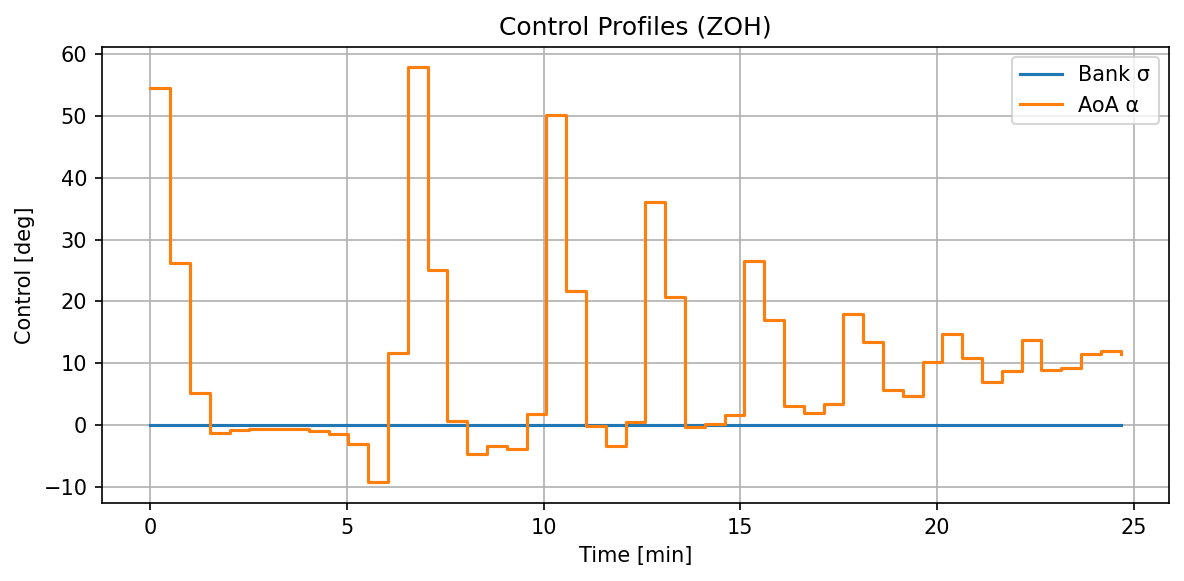
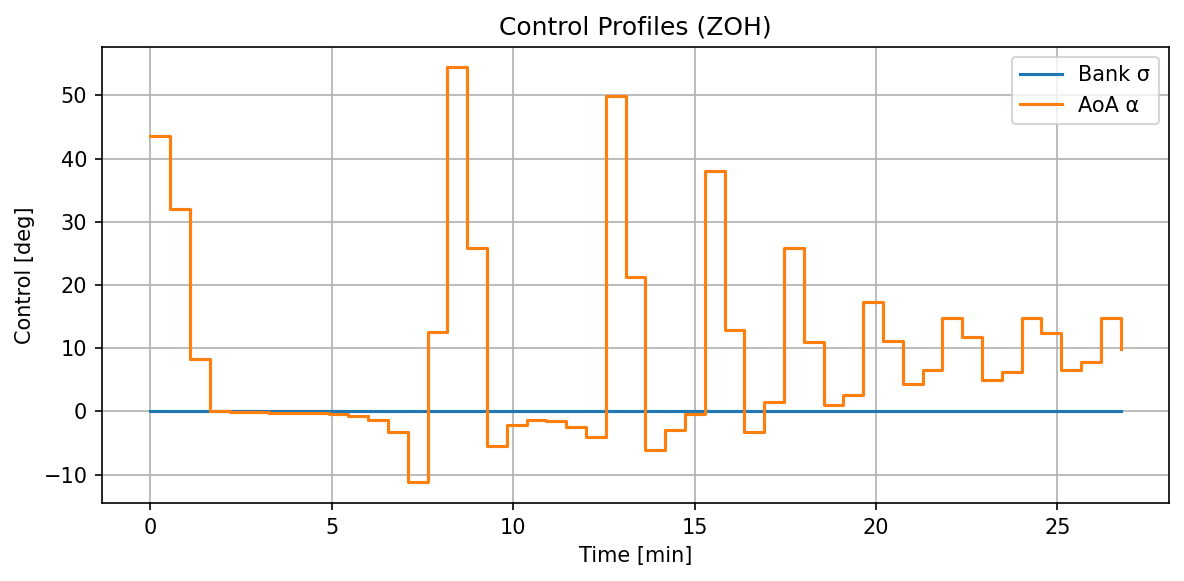
Checkpoint before assistant change: Set target location and show initial state/path for debugging issues
Sets final longitude/latitude and generates plots of initial trajectories; adjusts constraint limits for debugging IPOPT convergence issues.

Replit-Commit-Author: Assistant

diff --git a/hypersonic.py b/hypersonic.py
@@ -7,104 +7,108 @@ import casadi as ca
 import numpy as np
 
 # ---- physical constants (SI) --------------------------------------------
-MU       = 3.986004418e14          # Earth's GM          
-OMEGA_E  = 7.292115e-5             # sidereal rate       
+MU = 3.986004418e14  # Earth's GM
+OMEGA_E = 7.292115e-5  # sidereal rate
 
 # ---- Orbiter (Space Shuttle) geometry & aero ----------------------------
-SLUG2KG  = 14.593902937            # exact US-to-SI
-FT2M     = 0.3048
+SLUG2KG = 14.593902937  # exact US-to-SI
+FT2M = 0.3048
 FT2_TO_M2 = FT2M**2
 
-MASS = 7008 * SLUG2KG              # 102 274 kg
-SREF = 2690 * FT2_TO_M2            # 249.91 m²
+MASS = 7008 * SLUG2KG  # 102 274 kg
+SREF = 2690 * FT2_TO_M2  # 249.91 m²
 
 # C_L(α)  and  C_D(α)
-CL_0   = -0.2070
-CL_a   = 1.6760                    # per rad
-CD_0   = 0.07854
-CD_a   = -0.3529
-CD_a2  = 2.0400
+CL_0 = -0.2070
+CL_a = 1.6760  # per rad
+CD_0 = 0.07854
+CD_a = -0.3529
+CD_a2 = 2.0400
+
 
 class HypersonicVehicle(NonlinearSDE):
     """
     ▸ 6-state planar shuttle model with density GRF only.
     ▸ NO additive process-noise:  g(x,u) ≡ 0  (stochasticity is multiplicative via ρ).
     """
+
     def __init__(self, rho_field: DensityGRF | None = None):
         super().__init__(dim_x=6, dim_u=2, dim_w=0)
-        self.rho_field = rho_field     # if None → deterministic ρ̄(h)
+        self.rho_field = rho_field  # if None → deterministic ρ̄(h)
 
     # ------------------------------------------------------------------ AERODYNAMICS
     @staticmethod
     def aero_coeffs(alpha: float) -> tuple[float, float]:
-        cl = CL_0 + CL_a   * alpha
-        cd = CD_0 + CD_a   * alpha + CD_a2 * alpha**2
+        cl = CL_0 + CL_a * alpha
+        cd = CD_0 + CD_a * alpha + CD_a2 * alpha**2
         return cl, cd
 
-    def aero_forces(self, h: float, v: float, alpha: float) -> tuple[float, float]:
+    def aero_forces(self, h: float, v: float,
+                    alpha: float) -> tuple[float, float]:
         ρ = rho_nominal(h) if self.rho_field is None else self.rho_field(h)
         q = 0.5 * ρ * v**2
         cL, cD = self.aero_coeffs(alpha)
-        L, D   = q * SREF * cL, q * SREF * cD
+        L, D = q * SREF * cL, q * SREF * cD
         return L, D
 
     # ------------------------------------------------------------------ EQUATIONS OF MOTION
     def f(self, x, u, t):
-        r, _, φ, v, ψ, γ   = [x[i] for i in range(6)]        # states
-        σ, α               = [u[i] for i in range(2)]        # controls: bank, angle-of-attack
+        r, _, φ, v, ψ, γ = [x[i] for i in range(6)]  # states
+        σ, α = [u[i] for i in range(2)]  # controls: bank, angle-of-attack
 
-        h        = r - R_E
-        L, D     = self.aero_forces(h, v, α)
-        a_s      = -D / MASS
-        a_n      =  L * ca.cos(σ) / MASS
-        a_w      =  L * ca.sin(σ) / MASS
-        g_r      = MU / r**2
+        h = r - R_E
+        L, D = self.aero_forces(h, v, α)
+        a_s = -D / MASS
+        a_n = L * ca.cos(σ) / MASS
+        a_w = L * ca.sin(σ) / MASS
+        g_r = MU / r**2
 
-        rdot  = v * ca.sin(γ)
-        θdot  = v * ca.cos(γ) * ca.sin(ψ) / (r * ca.cos(φ))
-        φdot  = v * ca.cos(γ) * ca.cos(ψ) / r
-        vdot  = (a_s - g_r * ca.sin(γ)
-                 + (OMEGA_E**2) * r * ca.cos(φ) * (ca.sin(γ) * ca.cos(φ) - ca.cos(γ) * ca.sin(φ) * ca.cos(ψ)))
-        ψdot  = (a_w / (v * ca.cos(γ)) - (v / r) * ca.cos(γ) * ca.tan(φ) * ca.cos(ψ)
-                 - (OMEGA_E**2 * r / (v * ca.cos(γ))) * (ca.sin(φ) * ca.cos(φ) * ca.cos(ψ))
-                      + 2 * OMEGA_E * (ca.tan(γ) * ca.cos(φ) * ca.sin(ψ) - ca.sin(φ)))
-        γdot  = (a_n / v - g_r * ca.cos(γ) / v + v * ca.cos(γ) / r
-                 + (OMEGA_E**2 * r / v) * ca.cos(φ)
-                   * (ca.cos(γ) * ca.cos(φ) + ca.sin(γ) * ca.sin(φ) * ca.sin(ψ))
-                 + 2 * OMEGA_E * ca.cos(ψ) * ca.cos(φ))
+        rdot = v * ca.sin(γ)
+        θdot = v * ca.cos(γ) * ca.cos(ψ) / (r * ca.cos(φ))
+        φdot = v * ca.cos(γ) * ca.sin(ψ) / r
+        vdot = (a_s - g_r * ca.sin(γ) + (OMEGA_E**2) * r * ca.cos(φ) *
+                (ca.sin(γ) * ca.cos(φ) - ca.cos(γ) * ca.sin(φ) * ca.sin(ψ)))
+        ψdot = (a_w / (v * ca.cos(γ)) -
+                (v / r) * ca.cos(γ) * ca.tan(φ) * ca.cos(ψ) -
+                (OMEGA_E**2 * r /
+                 (v * ca.cos(γ))) * (ca.sin(φ) * ca.cos(φ) * ca.cos(ψ)) +
+                2 * OMEGA_E * (ca.tan(γ) * ca.cos(φ) * ca.sin(ψ) - ca.sin(φ)))
+        γdot = (a_n / v - g_r * ca.cos(γ) / v + v * ca.cos(γ) / r +
+                (OMEGA_E**2 * r / v) * ca.cos(φ) *
+                (ca.cos(γ) * ca.cos(φ) + ca.sin(γ) * ca.sin(φ) * ca.sin(ψ)) +
+                2 * OMEGA_E * ca.cos(ψ) * ca.cos(φ))
 
         return ca.vertcat(rdot, θdot, φdot, vdot, ψdot, γdot)
-    
+
     def f_np(self, x, u, t):
-        r, _, φ, v, ψ, γ   = x        # states
-        σ, α               = u        # controls
+        r, _, φ, v, ψ, γ = x  # states
+        σ, α = u  # controls
 
-        h        = max(r - R_E, 0.0)
-        L, D     = self.aero_forces(h, v, α)
-        a_s      = -D / MASS
-        a_n      =  L * np.cos(σ) / MASS
-        a_w      =  L * np.sin(σ) / MASS
-        g_r      = MU / r**2
+        h = max(r - R_E, 0.0)
+        L, D = self.aero_forces(h, v, α)
+        a_s = -D / MASS
+        a_n = L * np.cos(σ) / MASS
+        a_w = L * np.sin(σ) / MASS
+        g_r = MU / r**2
 
-        rdot  = v * np.sin(γ)
-        θdot  = v * np.cos(γ) * np.sin(ψ) / (r * np.cos(φ))
-        φdot  = v * np.cos(γ) * np.cos(ψ) / r
-        vdot  = (a_s - g_r * np.sin(γ)
-                 + (OMEGA_E**2) * r * np.cos(φ)
-                   * (np.sin(γ) * np.cos(φ) - np.cos(γ) * np.sin(φ) * np.sin(ψ)))
-        ψdot  = (a_w / (v * np.cos(γ)) - (v / r) * np.cos(γ) * np.tan(φ) * np.cos(ψ)
-                 - (OMEGA_E**2 * r / (v * np.cos(γ))) * (np.sin(φ) * np.cos(φ) * np.cos(ψ))
-                      + 2 * OMEGA_E * (np.tan(γ) * np.cos(φ) * np.sin(ψ) - np.sin(φ)))
-        
-        γdot  = (a_n / v
-                 - g_r * np.cos(γ) / v
-                 + v * np.cos(γ) / r
-                 + (OMEGA_E**2 * r / v) * np.cos(φ)
-                   * (np.cos(γ) * np.cos(φ) + np.sin(γ) * np.sin(φ) * np.sin(ψ))
-                 + 2 * OMEGA_E * np.cos(ψ) * np.cos(φ))
+        rdot = v * np.sin(γ)
+        θdot = v * np.cos(γ) * np.cos(ψ) / (r * np.cos(φ))
+        φdot = v * np.cos(γ) * np.sin(ψ) / r
+        vdot = (a_s - g_r * np.sin(γ) + (OMEGA_E**2) * r * np.cos(φ) *
+                (np.sin(γ) * np.cos(φ) - np.cos(γ) * np.sin(φ) * np.sin(ψ)))
+        ψdot = (a_w / (v * np.cos(γ)) -
+                (v / r) * np.cos(γ) * np.tan(φ) * np.cos(ψ) -
+                (OMEGA_E**2 * r /
+                 (v * np.cos(γ))) * (np.sin(φ) * np.cos(φ) * np.cos(ψ)) +
+                2 * OMEGA_E * (np.tan(γ) * np.cos(φ) * np.sin(ψ) - np.sin(φ)))
+
+        γdot = (a_n / v - g_r * np.cos(γ) / v + v * np.cos(γ) / r +
+                (OMEGA_E**2 * r / v) * np.cos(φ) *
+                (np.cos(γ) * np.cos(φ) + np.sin(γ) * np.sin(φ) * np.sin(ψ)) +
+                2 * OMEGA_E * np.cos(ψ) * np.cos(φ))
 
         return np.array([rdot, θdot, φdot, vdot, ψdot, γdot])
 
     # ------------ NO additive process noise ------------------------------------------------
     def g(self, x, u):
-        return ca.MX.zeros((6, 0))       # zero-column matrix → deterministic SDE
+        return ca.MX.zeros((6, 0))  # zero-column matrix → deterministic SDE

diff --git a/nominal_ocp.py b/nominal_ocp.py
@@ -295,51 +295,60 @@ if __name__ == "__main__":
     alt_kft = alt_m * m2ft / 1000.0
     vel_mps = X_sim[3, :]
     vel_kftps = vel_mps * m2ft / 1000.0
-    # theta_deg = X_sim[1, :] / deg2rad
-    # phi_deg = X_sim[2, :] / deg2rad
-    # psi_deg = X_sim[4, :] / deg2rad
-    # gamma_deg = X_sim[5, :] / deg2rad
-    # t_min = t_sim / 60
+    theta_deg = X_sim[1, :] / deg2rad
+    phi_deg = X_sim[2, :] / deg2rad
+    psi_deg = X_sim[4, :] / deg2rad
+    gamma_deg = X_sim[5, :] / deg2rad
+    t_min = t_sim / 60
 
-    # fig, axs = plt.subplots(3, 2, figsize=(8, 9), sharex=True)
-    # axs = axs.flatten()
-    # series = [alt_kft, theta_deg, phi_deg, vel_kftps, psi_deg, gamma_deg]
-    # labels = [
-    #     "Altitude [kft]", "θ [deg]", "φ [deg]", "Speed [kft/s]", "ψ [deg]",
-    #     "γ [deg]"
-    # ]
+    fig, axs = plt.subplots(3, 2, figsize=(8, 9), sharex=True)
+    axs = axs.flatten()
+    series = [alt_kft, theta_deg, phi_deg, vel_kftps, psi_deg, gamma_deg]
+    labels = [
+        "Altitude [kft]", "θ [deg]", "φ [deg]", "Speed [kft/s]", "ψ [deg]",
+        "γ [deg]"
+    ]
 
-    # for i, ax in enumerate(axs):
-    #     ax.plot(t_min, series[i])
-    #     ax.set_ylabel(labels[i])
-    #     ax.grid(True)
-    #     if i >= 4:  # only bottom row
-    #         ax.set_xlabel("Time [min]")
+    for i, ax in enumerate(axs):
+        ax.plot(t_min, series[i])
+        ax.set_ylabel(labels[i])
+        ax.grid(True)
+        if i >= 4:  # only bottom row
+            ax.set_xlabel("Time [min]")
 
-    # # 2) Path constraints
-    # rho = rho_nominal(X_sim[0, :] - R_E)
-    # q = dyn_pressure(rho, X_sim[3, :])
-    # Lam = heating_poly(rho, X_sim[3, :],
-    #                    np.hstack([alpha_init, alpha_init[-1]]))
-    # n = normal_load(rho, X_sim[3, :], np.hstack([alpha_init, alpha_init[-1]]))
+    plt.tight_layout()
+    plt.savefig("ini_state_trajectories.png", dpi=150, bbox_inches='tight')
+    print("✓ Saved initial guess state trajectories to state_trajectories.png")
+    plt.close()
 
-    # fig, axs = plt.subplots(3, 1, sharex=True, figsize=(8, 9))
-    # axs[0].plot(t_min, q)
-    # axs[0].axhline(q_max, color="r", linestyle="--")
-    # axs[0].set_ylabel("q [Pa]")
+    # 2) Path constraints
+    rho = rho_nominal(X_sim[0, :] - R_E)
+    q = dyn_pressure(rho, X_sim[3, :])
+    Lam = heating_poly(rho, X_sim[3, :],
+                       np.hstack([alpha_init, alpha_init[-1]]))
+    n = normal_load(rho, X_sim[3, :], np.hstack([alpha_init, alpha_init[-1]]))
 
-    # axs[1].plot(t_min, Lam * factor)
-    # axs[1].axhline(Λ_max * factor, color="r", linestyle="--")
-    # axs[1].set_ylabel("Λ [W/m²]")
+    fig, axs = plt.subplots(3, 1, sharex=True, figsize=(8, 9))
+    axs[0].plot(t_min, q)
+    axs[0].axhline(q_max, color="r", linestyle="--")
+    axs[0].set_ylabel("q [Pa]")
 
-    # axs[2].plot(t_min, n)
-    # axs[2].axhline(n_max, color="r", linestyle="--")
-    # axs[2].set_ylabel("n [g]")
-    # axs[2].set_xlabel("Time [min]")
+    axs[1].plot(t_min, Lam * factor)
+    axs[1].axhline(Λ_max * factor, color="r", linestyle="--")
+    axs[1].set_ylabel("Λ [W/m²]")
 
-    # for ax in axs:
-    #     ax.grid(True)
-    # plt.tight_layout()
+    axs[2].plot(t_min, n)
+    axs[2].axhline(n_max, color="r", linestyle="--")
+    axs[2].set_ylabel("n [g]")
+    axs[2].set_xlabel("Time [min]")
+
+    for ax in axs:
+        ax.grid(True)
+    plt.tight_layout()
+
+    plt.savefig("ini_path_constraints.png", dpi=150, bbox_inches='tight')
+    print("✓ Saved initial path constraints to path_constraints.png")
+    plt.close()
     # plt.show()
 
     # -------------------------- #

diff --git a/scenario.py b/scenario.py
@@ -2,33 +2,39 @@ import numpy as np
 from hypersonic import R_E
 
 deg2rad = np.pi / 180
-ft2m    = 0.3048
+ft2m = 0.3048
 
 # initial state  (perfect knowledge ⇒ mean state = state value)
-h0   = 260_000 * ft2m                       # 79 248 m
-v0   = 24_061 * ft2m                       # 7 335 m/s
-γ0   = -1.064 * deg2rad                    # −0.01857 rad
+h0 = 260_000 * ft2m  # 79 248 m
+v0 = 24_061 * ft2m  # 7 335 m/s
+γ0 = -1.064 * deg2rad  # −0.01857 rad
 
-x0_mean = np.array([R_E + h0,
-                    0.0,                   # θ
-                    0.0,                   # φ
-                    v0,
-                    0.0,                   # ψ
-                    γ0])
+x0_mean = np.array([
+    R_E + h0,
+    0.0,  # θ
+    0.0,  # φ
+    v0,
+    0.0,  # ψ
+    γ0
+])
 
 # terminal mean targets
-hT   = 80_000 * ft2m                        # 24 384 m
-vT   = 2_500 * ft2m                        # 762 m/s
-γT   = -5.0 * deg2rad                      # −0.08727 rad
+hT = 80_000 * ft2m  # 24 384 m
+vT = 2_500 * ft2m  # 762 m/s
+γT = -5.0 * deg2rad  # −0.08727 rad
+θT = 80.0 * deg2rad
+φT = -30.0 * deg2rad
 
-xf_mean = np.array([R_E + hT,
-                    None,                  # free longitude
-                    None,                  # free latitude
-                    vT,
-                    None,                  # free heading
-                    γT])
+xf_mean = np.array([
+    R_E + hT,
+    θT,  # free longitude
+    φT,  # free latitude
+    vT,
+    None,  # free heading
+    γT
+])
 
 # constraint scalars (literature values, Shuttle-specific)
-q_max       = 819 * 47.8803               # 819 psf ⇒ 3.9 × 10⁴ Pa
-Λ_max       = 70  * 1055.06 * 3.28084**2  # 70 Btu/ft²/s ⇒ 7.95 × 10⁵ W/m²
-n_max       = 2.5                         # Orbiter structural limit
+q_max = 1000 * 47.8803  # 819 psf ⇒ 3.9 × 10⁴ Pa
+Λ_max = 70 * 1055.06 * 3.28084**2  # 70 Btu/ft²/s ⇒ 7.95 × 10⁵ W/m²
+n_max = 5.0  # Orbiter structural limit
